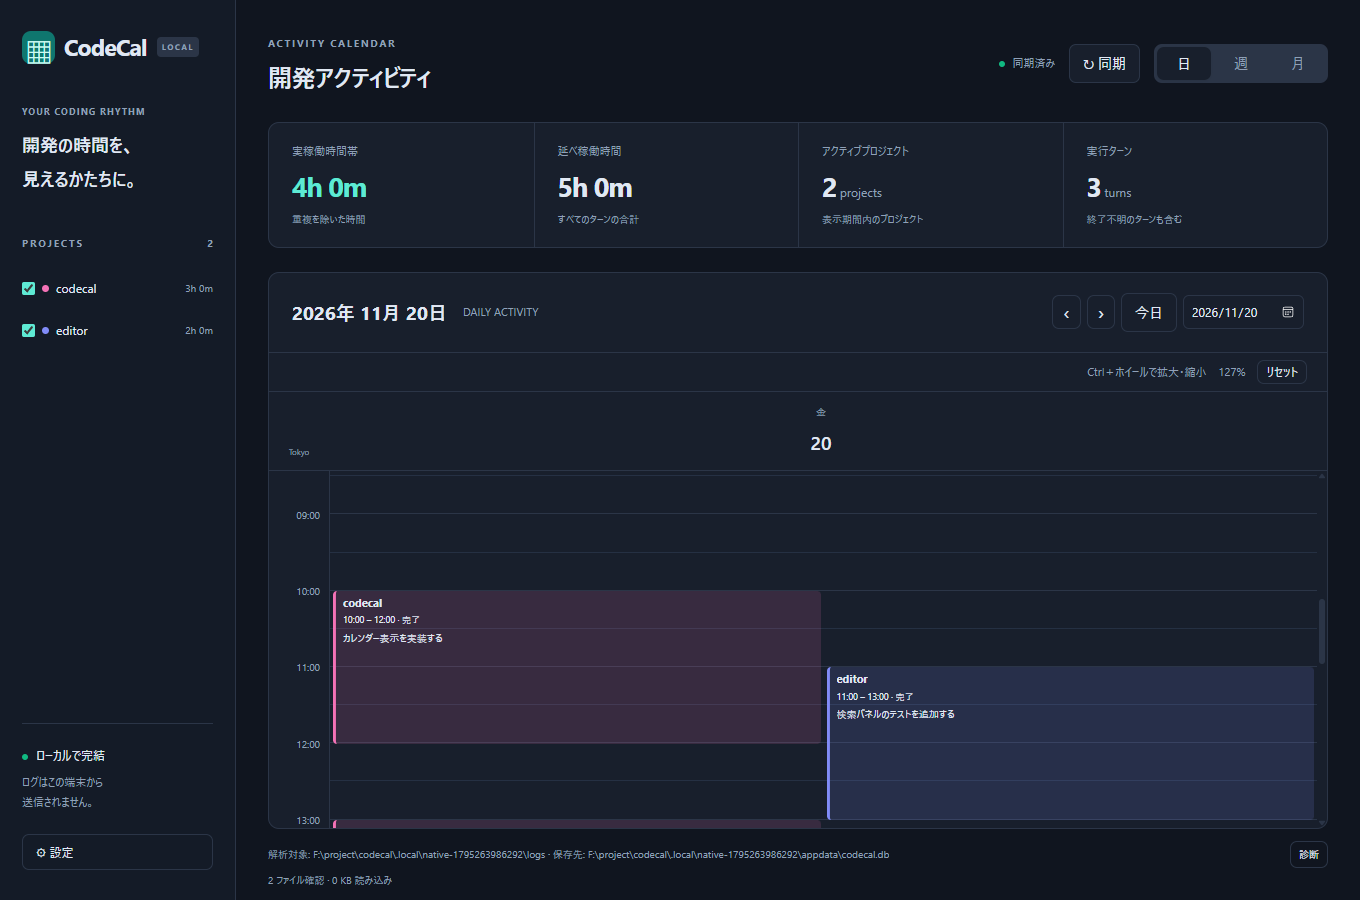
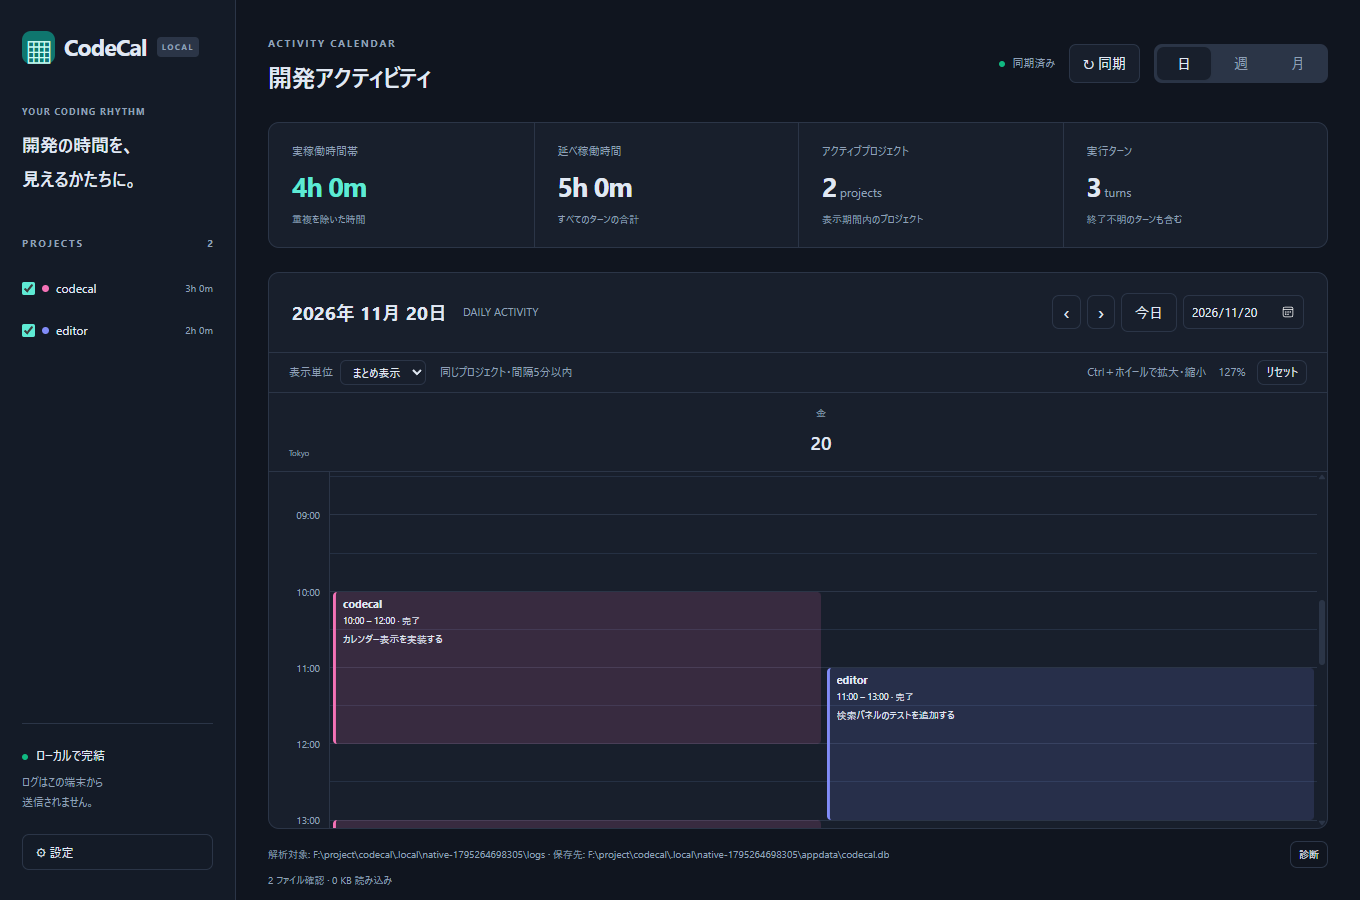
docs: document activity grouping and verified block reduction

diff --git a/docs/activity-calculation.md b/docs/activity-calculation.md
@@ -35,3 +35,11 @@ UIの表示期間とフィルタに合わせて再計算します。並列ブロ
 ## ヒートマップ
 
 既定は重複を除いた時間、切り替えで延べ時間です。5段階は0、0より大きく1時間未満、1–3時間、3–6時間、6時間以上。しきい値の1/3/6は設定できます。同じ時間には月をまたいでも同じ濃さを割り当てます。未確定ターンはターン数に含み、色の時間には加えません。
+
+## 表示上の作業のまとまり
+
+日・週表示では、同じプロジェクト・同じローカル日内で重なる区間、または直前のまとまりの最終終了から次の開始までが5分以内の区間をまとめます。他プロジェクトの並列作業は独立です。日付境界の分割は結合の前に適用します。終了不明のターンは他の区間と結合せず、元のマーカーとして表示します。
+
+まとめるのは表示だけで、元ターン・依頼文・状態・トークン・出典は保持します。「表示範囲」は最初の開始〜最後の終了。「実稼働時間帯」は元の確定区間の和集合、「延べ稼働時間」は元の確定区間の単純合計です。間の空白はどちらにも加算しません。例として10:00〜10:30、10:15〜10:45、10:50〜11:00は、表示範囲1時間、実55分、延べ70分となります。
+
+1ターンのみのブロックは従来の詳細へ直接移動し、複数ターンのブロックは一覧と状態別件数を開きます。各ターンの詳細から一覧へ戻れます。「まとめ表示」が既定で、「ターン単位」に切り替えても日次・月次・プロジェクト別集計は変わりません。表示単位の選択は起動中保持します。データベースのターンを結合したり、5分以内の空白から稼働を推測したりしません。
